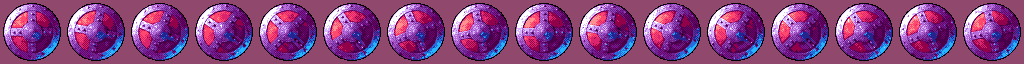
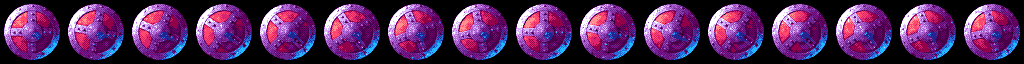
- Barbarian demo :   * Shield anim screen has a better transition in.

diff --git a/pirate_intro/src/shield_anim.c b/pirate_intro/src/shield_anim.c
@@ -7,6 +7,8 @@ extern u16 vramIndex;
 extern u16 fontIndex;
 extern u8 framerate;
 
+u16 palette_bg[16];
+
 void shieldAnimFX(void)
 {
 	u16 fx_phase, i, j, k, vcount;
@@ -25,47 +27,39 @@ void shieldAnimFX(void)
 	vramIndex = 0;
 
 	/* Draw the background */
-	VDP_drawImageEx(PLAN_B, &shield_anim, TILE_ATTR_FULL(PAL0, TRUE, FALSE, FALSE, vramIndex), 0, 0, FALSE, TRUE);
-
-	SYS_enableInts();
-	VDP_waitVSync();
-	SYS_disableInts();
-
-	VDP_drawImageEx(PLAN_B, &shield_anim, TILE_ATTR_FULL(PAL0, TRUE, FALSE, FALSE, vramIndex), 0, 8, FALSE, TRUE);
-
-	SYS_enableInts();
-	VDP_waitVSync();
-	SYS_disableInts();
-
-	VDP_drawImageEx(PLAN_B, &shield_anim, TILE_ATTR_FULL(PAL0, TRUE, FALSE, FALSE, vramIndex), 0, 16, FALSE, TRUE);
-
-	SYS_enableInts();
-	VDP_waitVSync();
-	SYS_disableInts();
-
-	VDP_drawImageEx(PLAN_B, &shield_anim, TILE_ATTR_FULL(PAL0, TRUE, FALSE, FALSE, vramIndex), 0, 24, FALSE, TRUE);
-	vramIndex += shield_anim.tileset->numTile;
-
-	SYS_enableInts();
-	VDP_waitVSync();
-	SYS_disableInts();
-
-	VDP_drawImageEx(PLAN_A, &transition_pattern, TILE_ATTR_FULL(PAL1, TRUE, FALSE, FALSE, vramIndex), 0, 0, FALSE, TRUE);
-	vramIndex += transition_pattern.tileset->numTile;
-
-	for(i = 1; i < 15; i++)
+	for(i = 0; i < 4; i++)
 	{
-		VDP_drawImageEx(PLAN_A, &transition_pattern, TILE_ATTR_FULL(PAL1, TRUE, FALSE, FALSE, vramIndex), 0, i << 1, FALSE, TRUE);
+		VDP_drawImageEx(PLAN_B, &shield_anim_0, TILE_ATTR_FULL(PAL0, TRUE, FALSE, FALSE, vramIndex), 0, i << 3 , FALSE, TRUE);
+
+		SYS_enableInts();
 		VDP_waitVSync();
+		SYS_disableInts();
 	}
 
-	// // /* Draw the foreground */
-	// for(i = 0; i < (224 - 120) >> 4; i++)
-	// 	RSE_clearTileRowBWithPrio(i);
+	vramIndex += shield_anim_0.tileset->numTile;
 
-	SYS_enableInts();
-	VDP_waitVSync();
-	SYS_disableInts();
+	for(i = 0; i < 4; i++)
+	{
+		VDP_drawImageEx(PLAN_B, &shield_anim_1, TILE_ATTR_FULL(PAL0, TRUE, FALSE, FALSE, vramIndex), 512 >> 3, i << 3 , FALSE, TRUE);
+
+		SYS_enableInts();
+		VDP_waitVSync();
+		SYS_disableInts();
+	}
+
+	vramIndex += shield_anim_1.tileset->numTile;
+
+	VDP_setPaletteColor(17, 0x000);
+
+	for(i = 0; i < 15; i++)
+	{
+		VDP_drawImageEx(PLAN_A, &transition_pattern, TILE_ATTR_FULL(PAL1, TRUE, FALSE, FALSE, vramIndex), 0, i << 1, FALSE, TRUE);
+		SYS_enableInts();
+		VDP_waitVSync();
+		SYS_disableInts();
+	}
+
+	vramIndex += transition_pattern.tileset->numTile;
 
 	VDP_setScrollingMode(HSCROLL_TILE, VSCROLL_PLANE);
 
@@ -96,8 +90,11 @@ void shieldAnimFX(void)
 		}
 	}
 
-	// VDP_setVerticalScroll(PLAN_B, 16);
-	VDP_fadePalTo(PAL1, rsi_logo_0.palette->data, RSE_FRAMES(16), TRUE);
+	for(i = 0; i < 16; i++)
+		palette_bg[i] = shield_anim_0.palette->data[i];
+
+	palette_bg[0] = flames_0.palette->data[2];
+
 	vcount = 0;
 	k = 0;
 	while(vcount < RSE_FRAMES(60 * 10))
@@ -105,28 +102,45 @@ void shieldAnimFX(void)
 		VDP_waitVSync();
 
 		if (vcount == RSE_FRAMES(16) + 2)
-				VDP_fadePalTo(PAL0, shield_anim.palette->data, RSE_FRAMES(16), TRUE);
+				VDP_fadePalTo(PAL0, shield_anim_0.palette->data, RSE_FRAMES(16), TRUE);
 		else
+		/* wipe fx */
 		if (vcount > RSE_FRAMES(40) && vcount < RSE_FRAMES(80))
 		{
 			si = vcount - RSE_FRAMES(40);
 			sj = (si * 700) / RSE_FRAMES(80 - 40);
 			for (i = 0; i < 32; i++)
 			{
-				si = sj + i;
+				si = sj + i - 32;
 				if (si < -700) si = -700;
 				wipe_tile_x[i] = si;
 			}
 			VDP_setHorizontalScrollTile(PLAN_A, 0, wipe_tile_x, 8 << 2, TRUE);
 		}
+		else
+		/* clear the wipe fx layer */
+		if (vcount >= RSE_FRAMES(80) && vcount < RSE_FRAMES(80) + 32)
+			RSE_clearTileRowA(vcount - RSE_FRAMES(80));
+		else
+		/* reset the scroll offset */
+		if (vcount == RSE_FRAMES(80) + 40)
+		{
+			for (i = 0; i < 32; i++)
+				wipe_tile_x[i] = 0;
+			VDP_setHorizontalScrollTile(PLAN_A, 0, wipe_tile_x, 8 << 2, TRUE);
+		}
 
+
+		if (vcount == RSE_FRAMES(70))
+				VDP_fadePalTo(PAL0, palette_bg, RSE_FRAMES(16), TRUE);
+
+		/* Animate the shields in the background */
 		vcount++;
 		k++;
 		if (k > 2)
 		{
 			k = 0;
 			VDP_setHorizontalScrollTile(PLAN_B, 0, scroll_tile_x, 8 << 2, TRUE);
-			// VDP_setHorizontalScrollTile(PLAN_A, 0, scroll_tile_x, 8 << 2, TRUE);
 			for (i = 0; i < 4; i++)
 				for(j = 0; j < 8; j++)
 					shield_hscroll[(i << 3) + j] += scroll_dir[(i << 3) + j];

diff --git a/pirate_intro/src/res/gfx.h b/pirate_intro/src/res/gfx.h
@@ -35,7 +35,8 @@ extern const Image exocet_ankou_front_0;
 extern const Image exocet_ankou_front_1;
 extern const Image exocet_ankou_front_2;
 extern const Image exocet_ankou_front_3;
-extern const Image shield_anim;
+extern const Image shield_anim_0;
+extern const Image shield_anim_1;
 extern const SpriteDefinition rse_logo_shadow;
 extern const SpriteDefinition sword;
 extern const Image transition_pattern;
